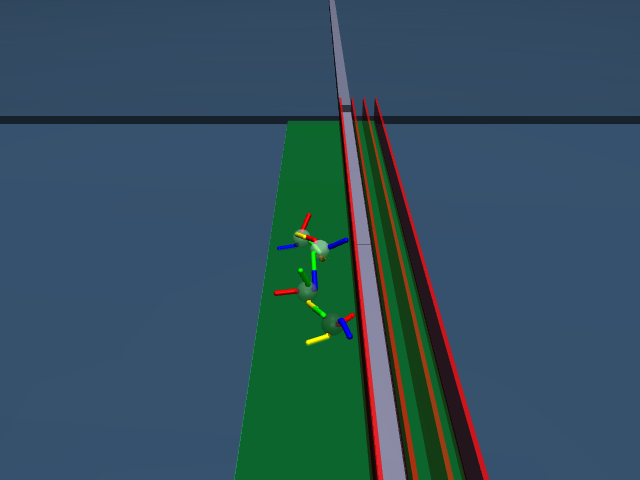
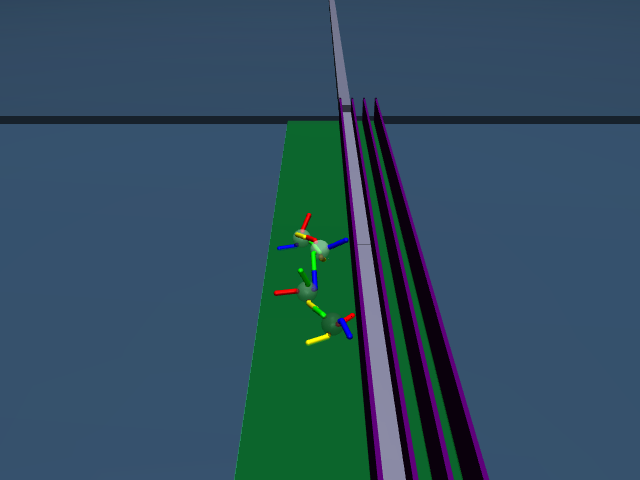
.

Changed region(s): [[0.5312, 0.1875, 0.7812, 1.0]]

diff --git a/experiments/mat_nop_wall_mjw_1024x4_ablation/plot_buggy_results.py b/experiments/mat_nop_wall_mjw_1024x4_ablation/plot_buggy_results.py
@@ -1,0 +1,50 @@
+from __future__ import annotations
+
+import sys
+from pathlib import Path
+
+REPO_ROOT = Path(__file__).resolve().parents[2]
+if str(REPO_ROOT) not in sys.path:
+    sys.path.insert(0, str(REPO_ROOT))
+
+from plot_logs.experiment_results import plot_experiment_results
+
+
+EXPERIMENT_RUN_DIR = REPO_ROOT / "runs" / ".buggy" / "mat_nop_swarm_bots_wall_mjw_1024x4_ablation"
+OUTPUT_DIR = Path(__file__).resolve().parent / "results_buggy"
+GROUP_ORDER = (
+    "sticky_lr_beta_nop",
+    "gsde_nop",
+    "lr_beta_nop",
+    "sticky_lr_beta_no_nop",
+)
+DISPLAY_NAME_OVERRIDES = {
+    "sticky_lr_beta_nop": "Sticky L/R Beta + NOP",
+    "gsde_nop": "gSDE + NOP",
+    "lr_beta_nop": "L/R Beta + NOP",
+    "sticky_lr_beta_no_nop": "Sticky L/R Beta, no NOP",
+}
+# EXTRA_GROUP_SOURCES = {
+#     "sticky_lr_beta_nop": (
+#         REPO_ROOT / "runs" / ".buggy" / "mat_nop_swarm_bots_wall_mjw_batch_env_sweep" / "1024x4",
+#     ),
+# }
+THEORETICAL_MAXIMUM = 10.5
+
+
+def main() -> int:
+    result = plot_experiment_results(
+        EXPERIMENT_RUN_DIR,
+        OUTPUT_DIR,
+        group_order=GROUP_ORDER,
+        theoretical_maximum=THEORETICAL_MAXIMUM,
+        display_name_overrides=DISPLAY_NAME_OVERRIDES,
+#         extra_group_sources=EXTRA_GROUP_SOURCES,
+    )
+    for output_path in result.output_paths:
+        print(output_path)
+    return 0
+
+
+if __name__ == "__main__":
+    raise SystemExit(main())

diff --git a/experiments/mat_nop_wall_mjw_batch_env_sweep/plot_buggy_results.py b/experiments/mat_nop_wall_mjw_batch_env_sweep/plot_buggy_results.py
@@ -1,0 +1,38 @@
+from __future__ import annotations
+
+import sys
+from pathlib import Path
+
+REPO_ROOT = Path(__file__).resolve().parents[2]
+if str(REPO_ROOT) not in sys.path:
+    sys.path.insert(0, str(REPO_ROOT))
+
+from plot_logs.experiment_results import plot_experiment_results
+
+
+EXPERIMENT_RUN_DIR = REPO_ROOT / "runs" / ".buggy" / "mat_nop_swarm_bots_wall_mjw_batch_env_sweep"
+OUTPUT_DIR = Path(__file__).resolve().parent / "results_buggy"
+GROUP_ORDER = (
+    "1024x4",
+    "2048x4",
+    "1024x8",
+    "4096x4_virtual2",
+    "4096x4x12",
+)
+THEORETICAL_MAXIMUM = 10.5
+
+
+def main() -> int:
+    result = plot_experiment_results(
+        EXPERIMENT_RUN_DIR,
+        OUTPUT_DIR,
+        group_order=GROUP_ORDER,
+        theoretical_maximum=THEORETICAL_MAXIMUM,
+    )
+    for output_path in result.output_paths:
+        print(output_path)
+    return 0
+
+
+if __name__ == "__main__":
+    raise SystemExit(main())

diff --git a/docs/wall_scenario/generate_wall_reward_indicators.py b/docs/wall_scenario/generate_wall_reward_indicators.py
@@ -36,7 +36,7 @@ class RewardIndicatorWallScenario(ObstacleStreetScenario):
                 spec,
                 name=f"RewardWallPassThreshold_{threshold_idx}",
                 size=[self.side_wall_x, 0.016, 0.25],
-                rgba=[1.0, 0.0, 0.0, 0.5],
+                rgba=[0.35, 0.0, 0.45, 1.0],
             )
 
     @staticmethod
